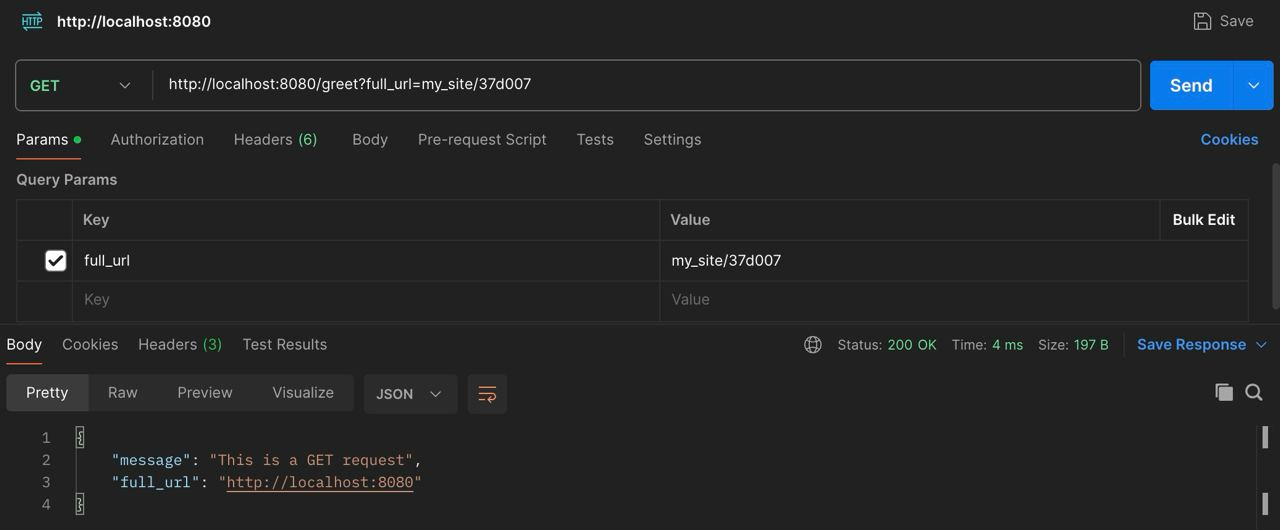
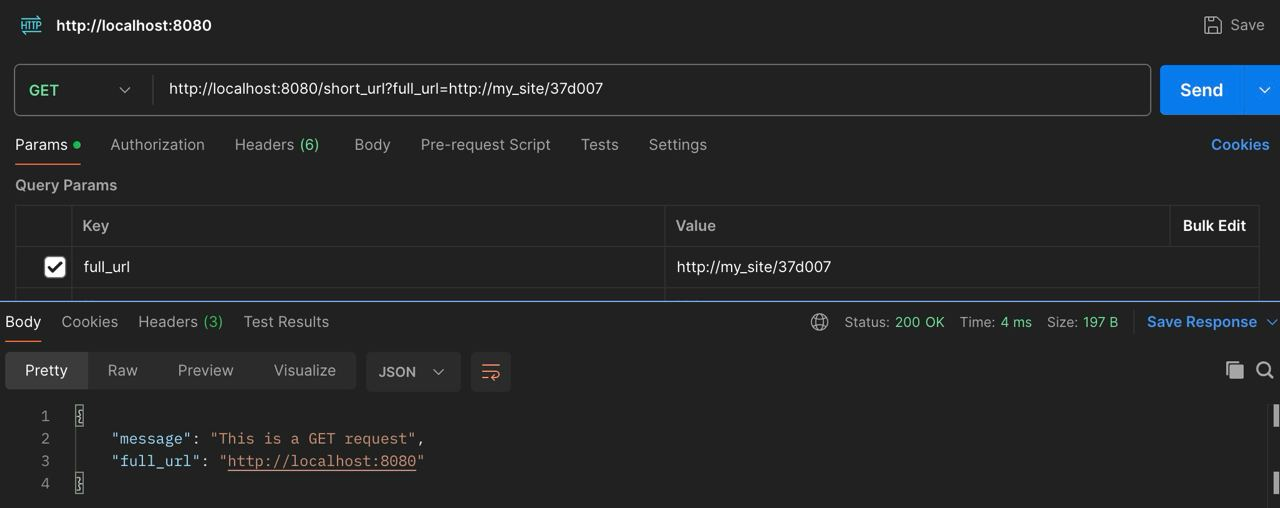
Add protocol to link

diff --git a/src/url_shortener/domain/domain_services/create_short_url.py b/src/url_shortener/domain/domain_services/create_short_url.py
@@ -4,6 +4,6 @@ import hashlib
 def create_short_url(base_url: str, full_url: str) -> str:
     short_hash = hashlib.md5(full_url.encode()).hexdigest()[:6]
 
-    short_url = base_url + short_hash
+    short_url = 'http://' + base_url + short_hash
 
     return short_url

diff --git a/README.md b/README.md
@@ -23,9 +23,9 @@
 Можно выбрать, к примеру, postman или посылать запросы напрямую через терминал с помощью curl
 ### Пример с curl
 1. Создать короткую ссылку на основе полной ссылки и получить короткую ссылку\
-```curl -X POST -d '{"key": "http://localhost:8080"}' -H "Content-Type: application/json" http://localhost:8080```
+```curl -X POST -d '{"key": "http://localhost:8080"}' -H "Content-Type: application/json" http://localhost:8080/short_url```
 2. Получить полную ссылку по короткой ссылке. Короткую ссылку можно получить после её создания \
-```curl "http://localhost:8080/greet?full_url=my_site/37d007"```
+```curl "http://localhost:8080/short_url?full_url=my_site/37d007"```
 
 ![post](/docs/POST.jpg "POST example")
 ![get](/docs/GET.jpg "GET example")
